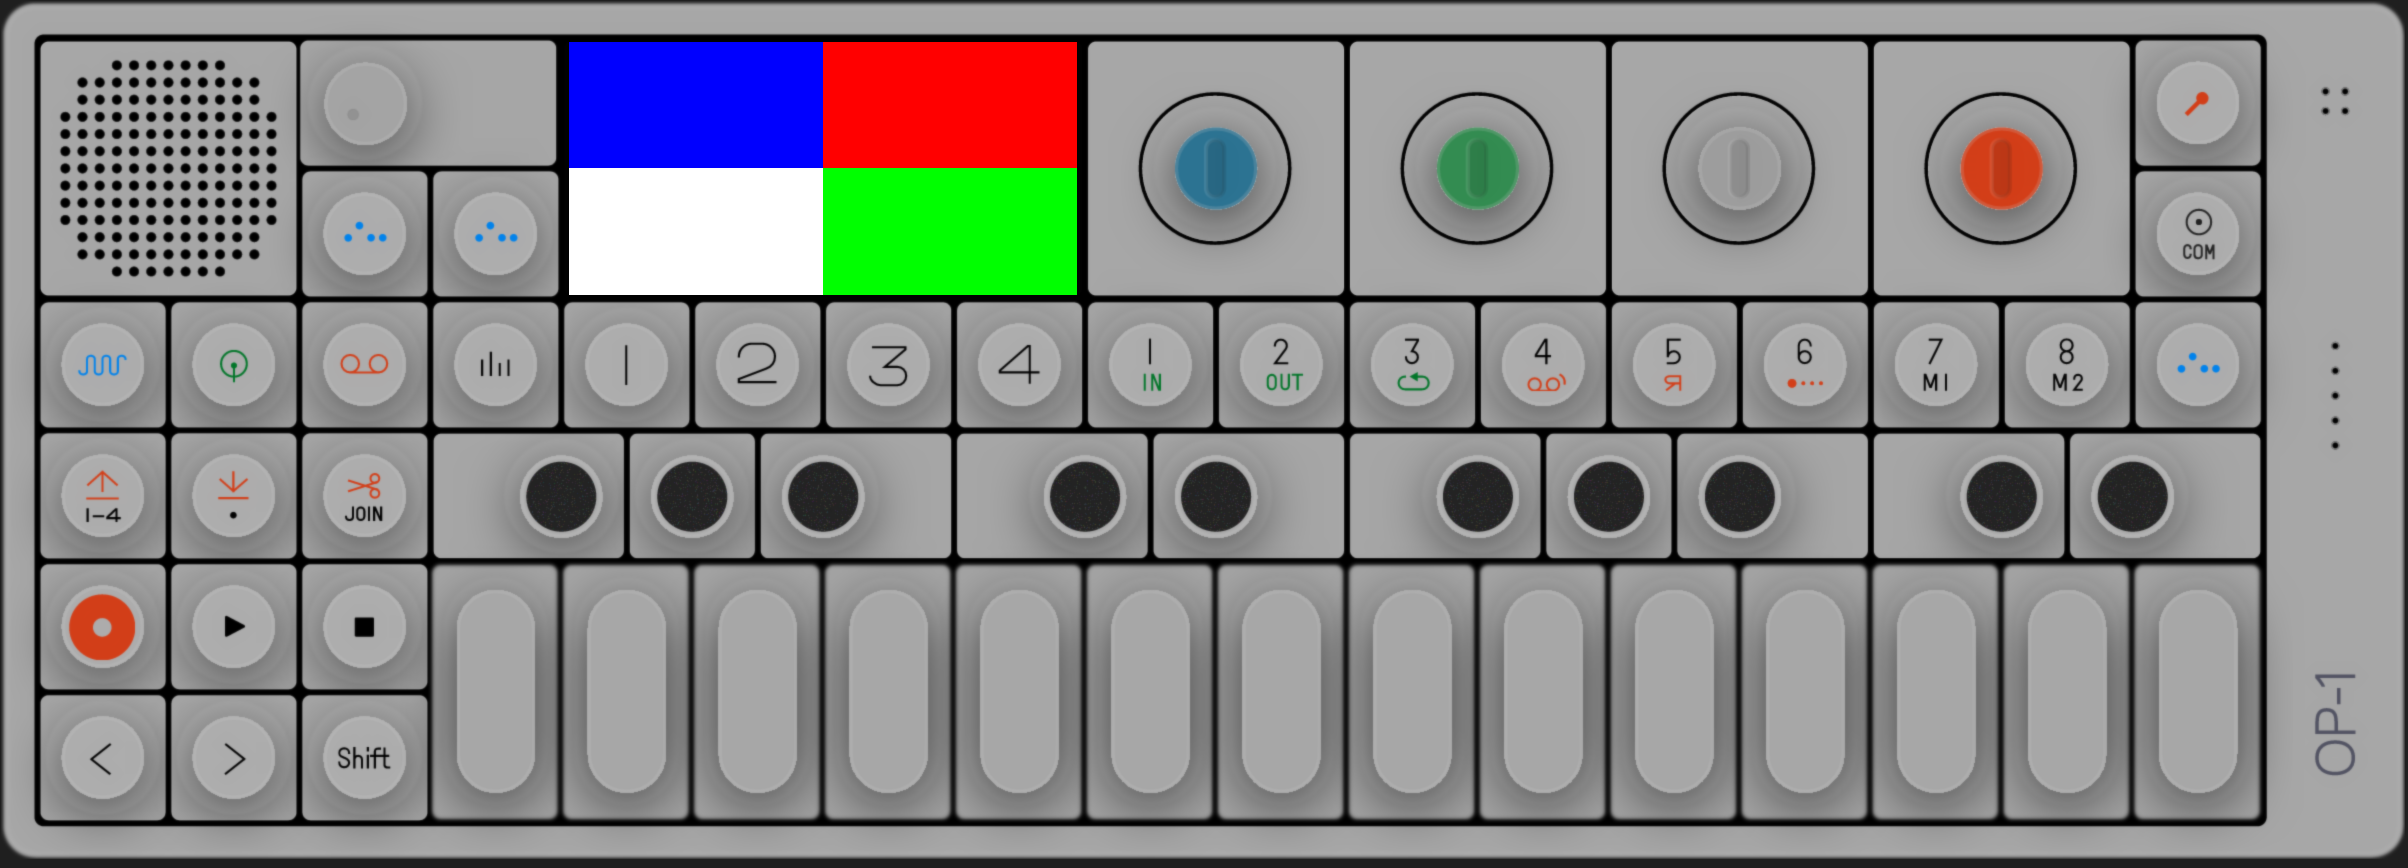
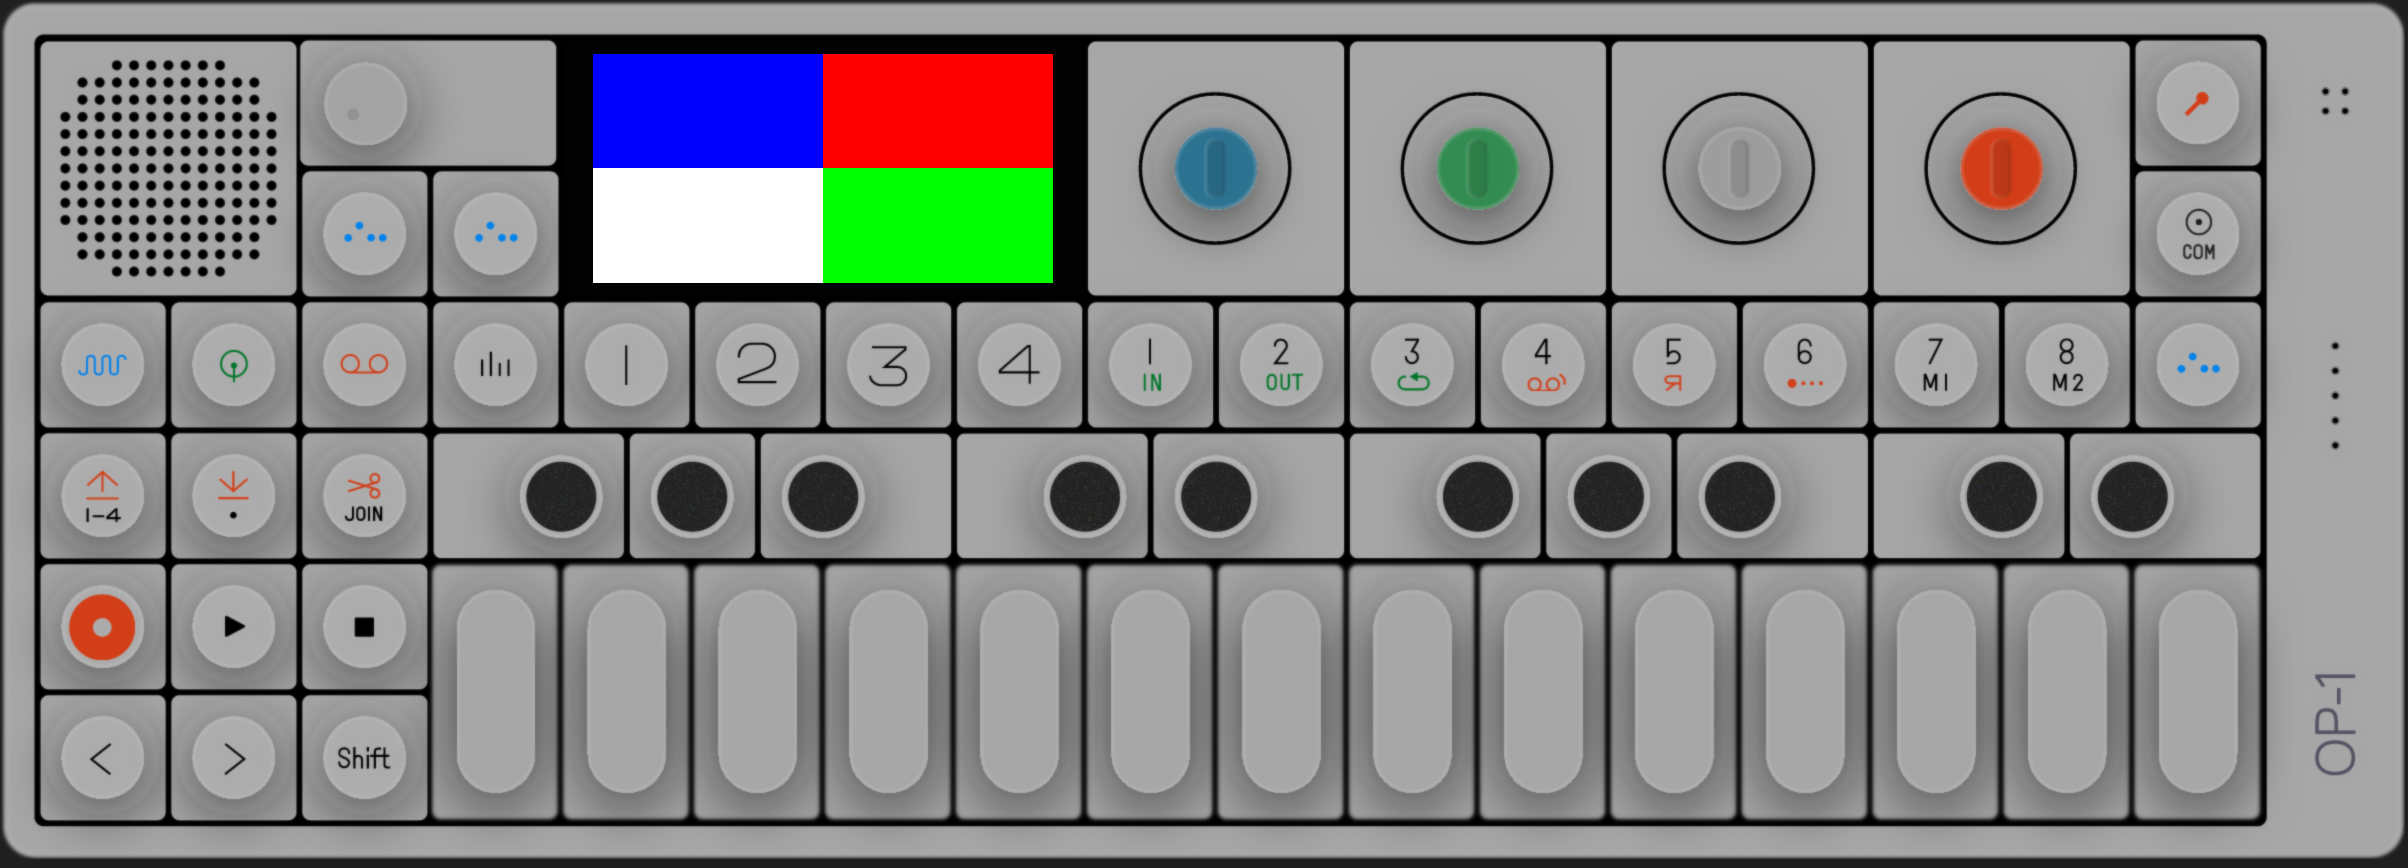
fix: inset the live SVG display within the screen glass

Changed region(s): [[0.218, 0.0311, 0.4672, 0.3422]]

diff --git a/docs/visual-comparisons/resvg-frontend/README.md b/docs/visual-comparisons/resvg-frontend/README.md
@@ -15,9 +15,12 @@ with no perspective transform on the screen. No Figma reference was provided;
 Inkscape is the independent reference here.
 
 The blank screen rectangle is x=282.227, y=20.7792, w=258.784, h=126.956.
-The live 2:1 framebuffer is centered within it at x=284.663, y=20.7792,
-w=253.912, h=126.956, retaining small black side margins. Screen quads also
-support perspective transforms (covered by the GL harness).
+The live 2:1 framebuffer is centered within it at x=296.663, y=26.7792,
+w=229.912, h=114.956. Following the user's reference, a six-unit inset on
+the recess is applied before fitting the framebuffer's 2:1 aspect ratio,
+leaving black glass visible on all four sides. This is a visual calibration,
+not a measurement of the physical display. Screen quads also support
+perspective transforms (covered by the GL harness).
 
 ## Reference comparisons
 
@@ -142,5 +145,6 @@ The user explicitly authorized publication of this live firmware-246 Drum previe
 
 ![Work-in-progress SVG panel with the live Drum framebuffer on Retina](live-svg-drum-retina.png)
 
-This is a progress preview, not a readiness claim. Other live captures remain
-private. The earlier color-screen captures are firmware-free diagnostic images.
+This is a progress preview captured before the screen-inset calibration, not a
+readiness claim. Other live captures remain private. The earlier color-screen
+captures are firmware-free diagnostic images.
